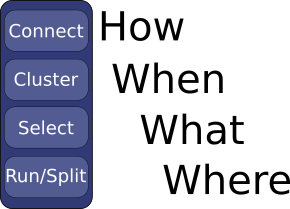
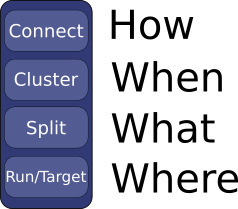
Simplifiying lists, removing noisy data

diff --git a/slides/reveal.js/index.html b/slides/reveal.js/index.html
@@ -95,17 +95,6 @@
 				</section>
 
 				<section>
-					<h2>Existing Solutions</h2>
-					<ul>
-						<li>Postgres-xc/xl</li>
-						<li>Slony</li>
-						<li>Redshift</li>
-						<li>Pg_shard</li>
-						<li>PLProxy</li>
-					</ul>
-				</section>
-
-				<section>
 					<h2>PLProxy</h2>
 					<ul>
 						<li>Simple API</li>
@@ -168,7 +157,6 @@ CREATE OR REPLACE FUNCTION upsert_count(
 	LANGUAGE plproxy
 	AS $$
 	CLUSTER 'testcounts';
-	SPLIT ALL;
 	RUN ON hashtext(in_event_id);
 $$;
 					</code></pre>
@@ -261,9 +249,11 @@ select upsert_test_count(
 
 				<section>
 					<h2>Tuning</h2>
-					<p>Optimum index configuration (3/4 dimensions indexed)</p>
-					<p>The fillfactor tells Postgres to pre-allocate 90% of the index space empty, copy data less.</p>
-                                        <p>Standard best practices for workMem, and other memory settings</p>
+                                        <ul>
+					<li>Optimum index configuration (3/4 dimensions indexed)</li>
+					<li>The fillfactor tells Postgres to pre-allocate 90% of the index space empty, copy data less.</li>
+                                        <li>Standard best practices for workMem, and other memory settings</li>
+                                        </ul>
 				</section>
 
 
@@ -378,43 +368,24 @@ select upsert_test_count(
 				<section>
 					<h2>Setting up a loaded system</h2>
 
-					<table>
-						<thead>
-							<tr>
-								<th>Cluster State</th>
-								<th>Cluster Size (MB)</th>
-								<th>Index Size(MB)</th>
-								<th>Number of Rows</th>
-								<th>Number of IDs</th>
-							</tr>
-						</thead>
-						<tbody>
-							<tr>
-								<td>Before</td>
-								<td>63,864</td>
-								<td>21,824</td>
-								<td>333,757,839</td>
-								<td>307,520</td>
-							</tr>
-							<tr>
-								<td>After</td>
-								<td>80,096</td>
-								<td>27,088</td>
-								<td>412,900,728</td>
-								<td>357,520</td>
-							</tr>
+                                        <ol>
+                                            <li>60G of test data</li>
+                                            <li>20G of indexes</li>
+                                            <li>Added 20G more data, and 6G more indexes</li>
+                                        </ol>
 
-						</tbody>
-					</table>
+
 				</section>
 
 				<section>
 
 					<h2>Setting up concurrent requests</h2>
 
-					<p>Pre-generate insert query batches into .sql files</p>
-					<p>Run 10 concurrently in a screen session</p>
-					<p>Not 100% representative of real-world behavior</p>
+                                        <ul>
+                                            <li>Pre-generate insert query batches into .sql files</li>
+                                            <li>Run 10 concurrently in a screen session</li>
+                                            <li>Not 100% representative of real-world behavior</li>
+                                        </ul>
 
 				</section>
 
